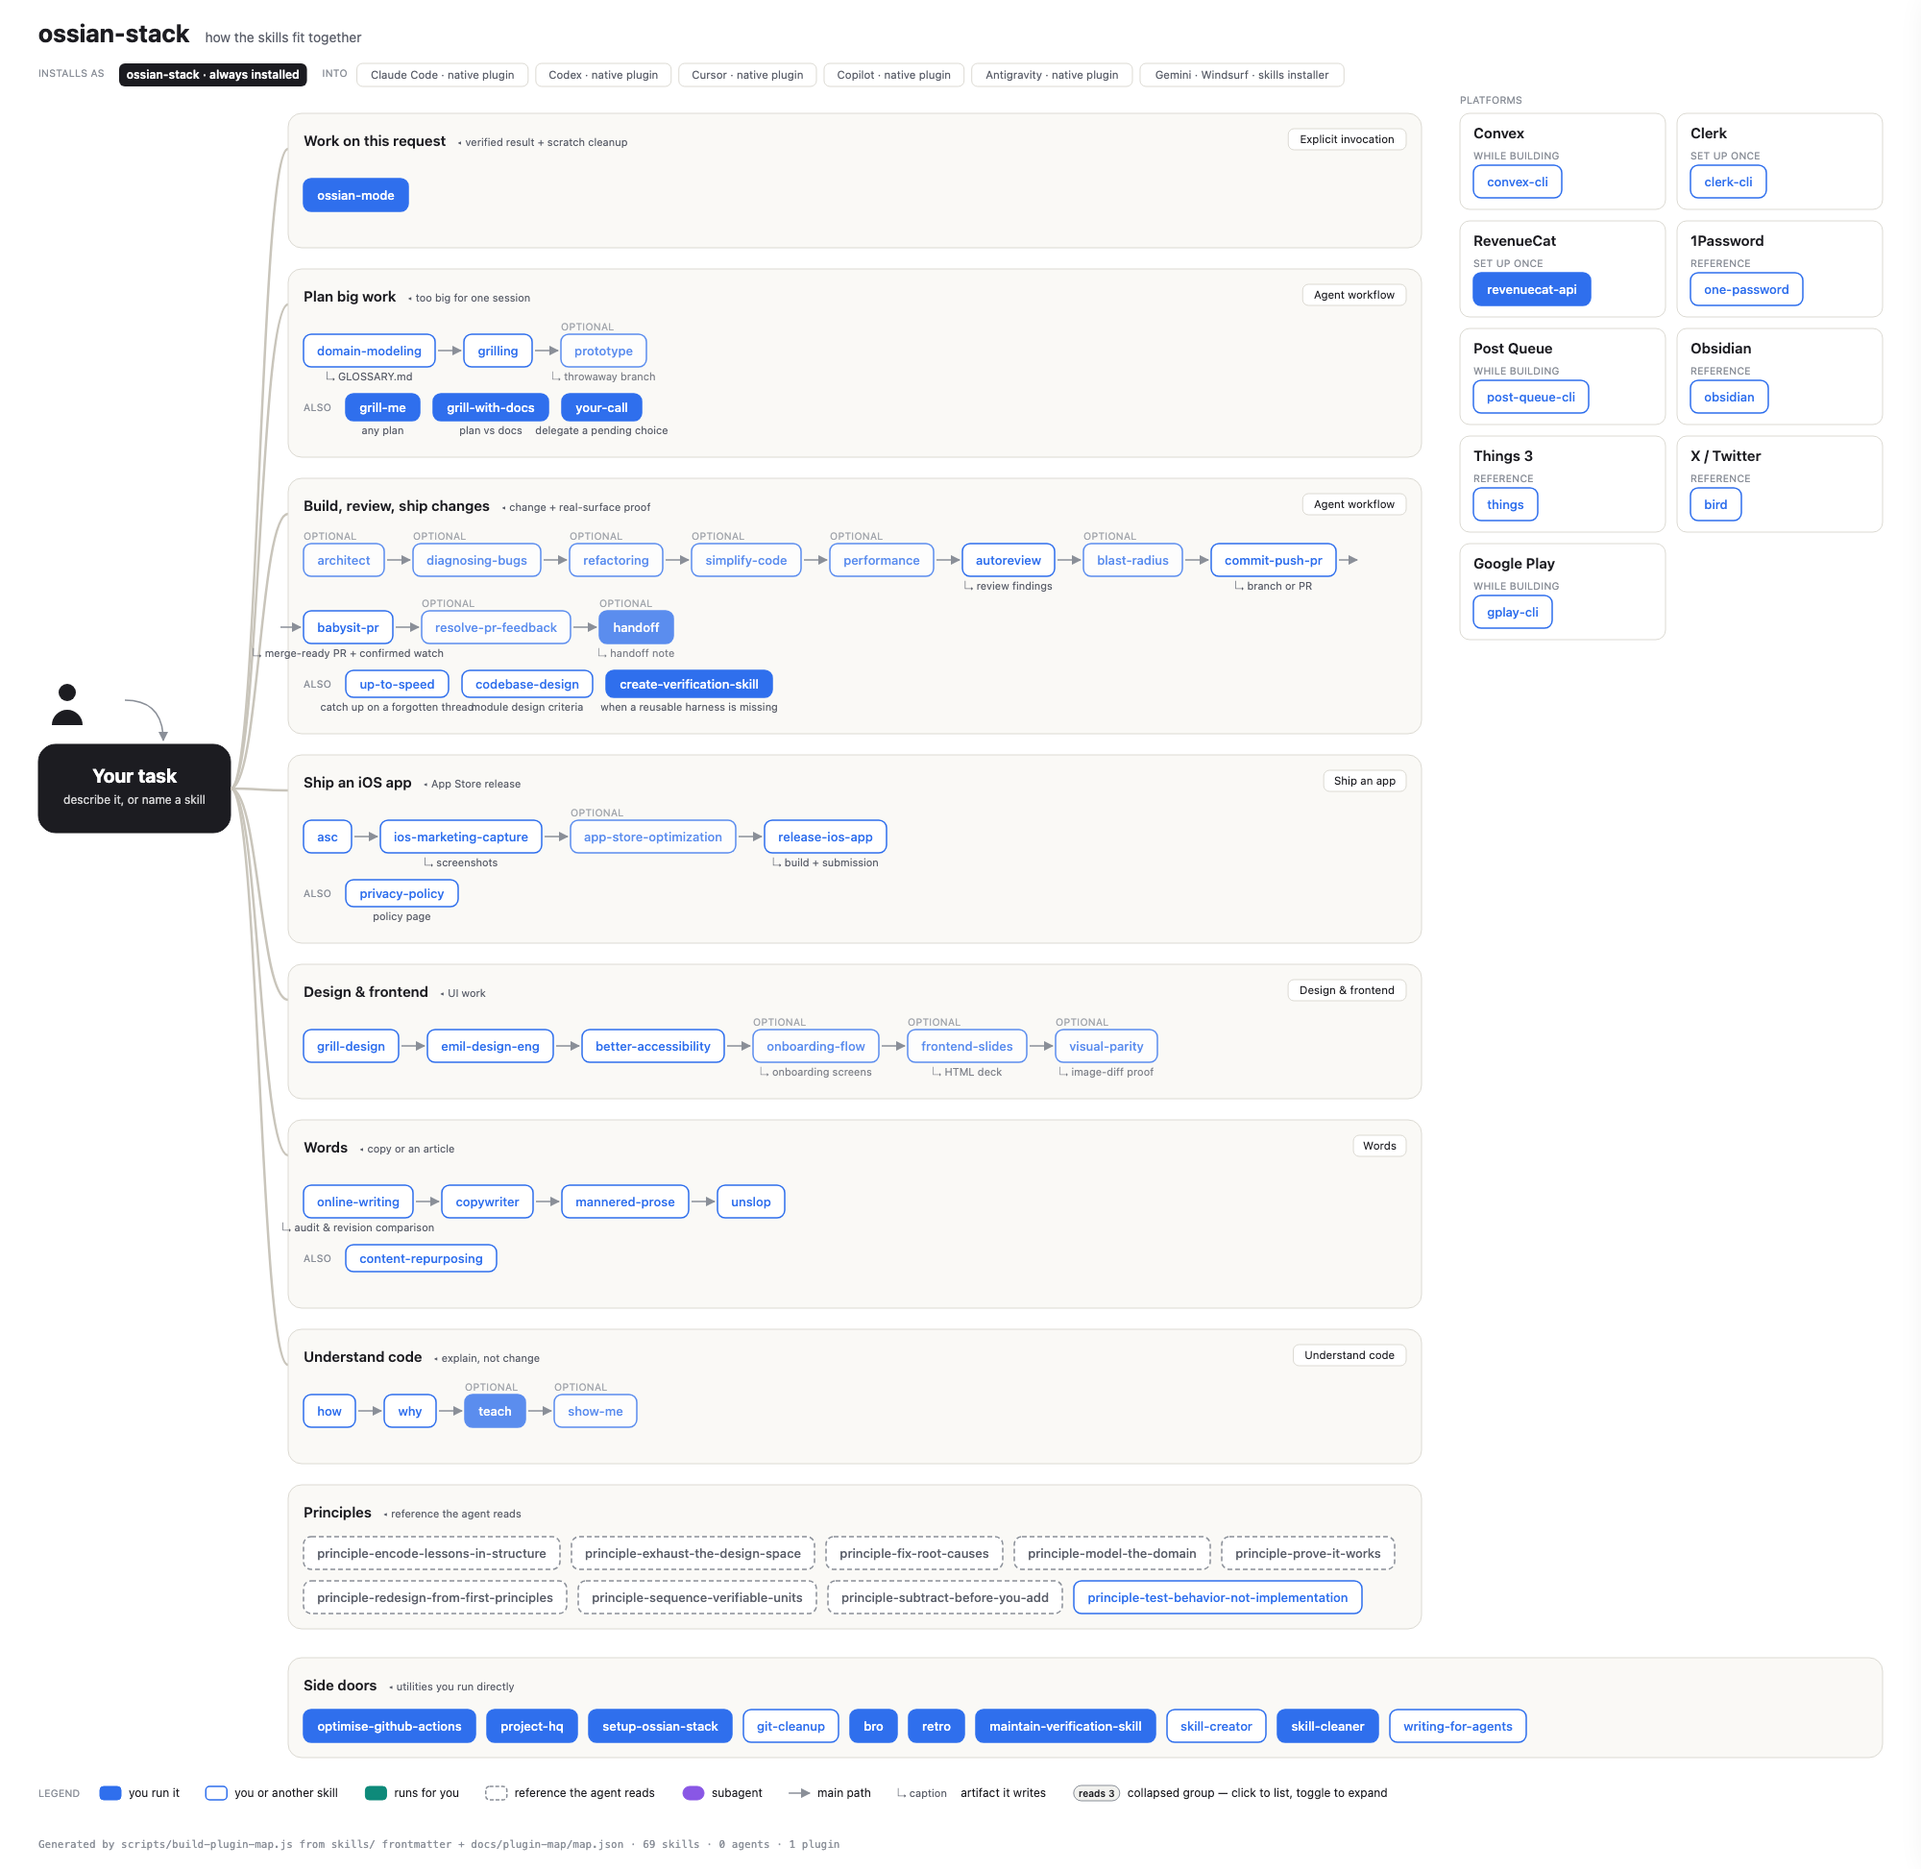
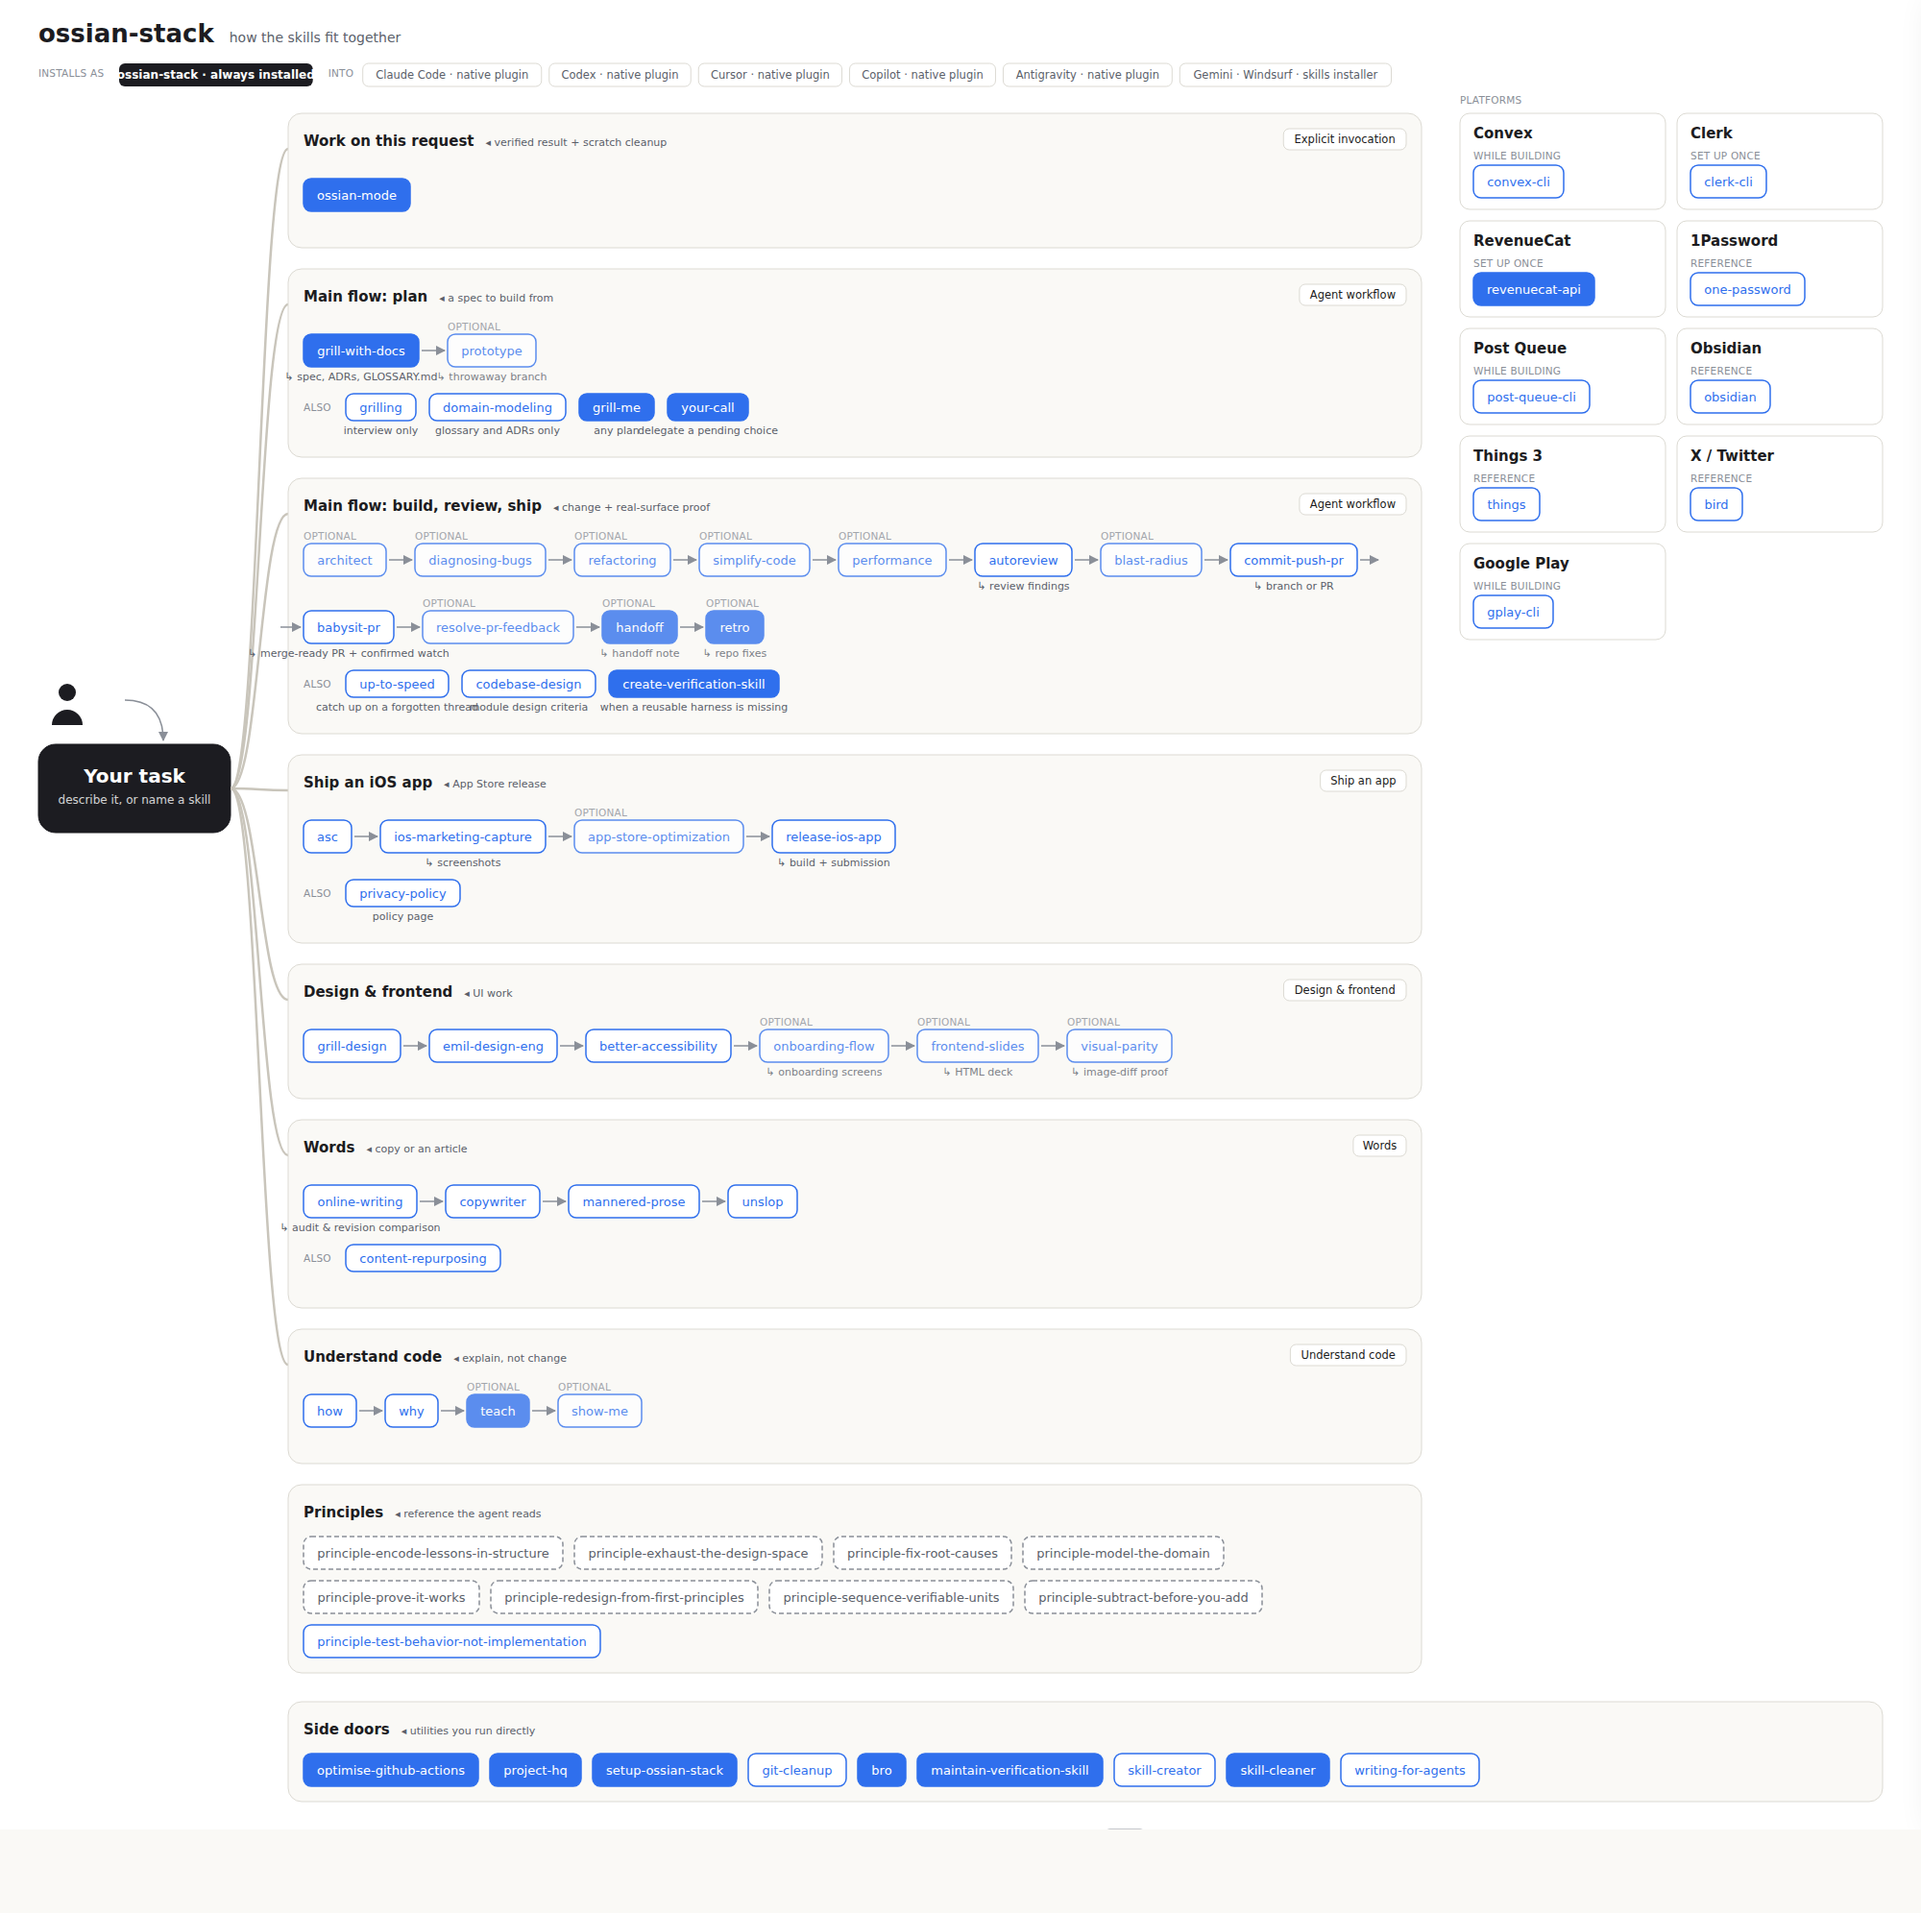
feat(grill-with-docs): end with a spec and document the main flow
grill-with-docs now finishes by writing a spec (goal, decisions, out of
scope, behavior checks, build order) in place of tickets. The README gains
a "Main flow" section that orders the idea-to-ship skills, ossian-mode
builds a spec's units test-first, and the plugin map marks the plan and
build lanes as the main flow with retro at the end.

Claude-Session: https://claude.ai/code/session_01UTeC3iE8M5jTcZm3SuxENU

diff --git a/docs/plugin-map/index.html b/docs/plugin-map/index.html
@@ -169,16 +169,13 @@
    },
    {
     "id": "plan",
-    "title": "Plan big work",
-    "outcome": "too big for one session",
+    "title": "Main flow: plan",
+    "outcome": "a spec to build from",
     "tag": "Agent workflow",
     "steps": [
      {
-      "id": "domain-modeling",
-      "writes": "GLOSSARY.md"
-     },
-     {
-      "id": "grilling"
+      "id": "grill-with-docs",
+      "writes": "spec, ADRs, GLOSSARY.md"
      },
      {
       "id": "prototype",
@@ -188,12 +185,16 @@
     ],
     "extras": [
      {
-      "id": "grill-me",
-      "note": "any plan"
+      "id": "grilling",
+      "note": "interview only"
      },
      {
-      "id": "grill-with-docs",
-      "note": "plan vs docs"
+      "id": "domain-modeling",
+      "note": "glossary and ADRs only"
+     },
+     {
+      "id": "grill-me",
+      "note": "any plan"
      },
      {
       "id": "your-call",
@@ -203,7 +204,7 @@
    },
    {
     "id": "build",
-    "title": "Build, review, ship changes",
+    "title": "Main flow: build, review, ship",
     "outcome": "change + real-surface proof",
     "tag": "Agent workflow",
     "steps": [
@@ -251,6 +252,11 @@
       "id": "handoff",
       "optional": true,
       "writes": "handoff note"
+     },
+     {
+      "id": "retro",
+      "optional": true,
+      "writes": "repo fixes"
      }
     ],
     "extras": [
@@ -479,7 +485,6 @@
    "setup-ossian-stack",
    "git-cleanup",
    "bro",
-   "retro",
    "maintain-verification-skill",
    "skill-creator",
    "skill-cleaner",
@@ -1009,7 +1014,7 @@
    "type": "skill",
    "plugin": "ossian-stack",
    "display": "Grill with Docs",
-   "description": "A relentless interview to sharpen a plan or design, which also creates docs (ADR's and glossary) as we go.",
+   "description": "A relentless interview to sharpen a plan or design, which also creates docs (ADR's and glossary) as we go and ends with a written spec.",
    "role": "human",
    "humanOnly": true,
    "argumentHint": null,
@@ -1021,7 +1026,9 @@
    ],
    "routes": [],
    "calledBy": [],
-   "routedBy": []
+   "routedBy": [
+    "ossian-mode"
+   ]
   },
   "grilling": {
    "id": "grilling",
@@ -1284,6 +1291,7 @@
    ],
    "routes": [
     "create-verification-skill",
+    "grill-with-docs",
     "mannered-prose",
     "project-hq"
    ],

diff --git a/skills/grill-with-docs/SPEC-FORMAT.md b/skills/grill-with-docs/SPEC-FORMAT.md
@@ -1,0 +1,48 @@
+# Spec Format
+
+A spec turns a finished grilling session into the brief an implementer works
+from — you in a later session, another agent, or a fresh subagent that inherits
+nothing. Write it for that reader.
+
+## Where it goes
+
+Follow the project's existing spec or plan location if it has one. Otherwise
+write `docs/specs/<slug>.md`, creating the directory when the first spec is
+written. Update an existing spec for the same work instead of adding a second.
+
+## Template
+
+```md
+# {Feature or change, in the project's GLOSSARY.md terms}
+
+## Goal
+{What a user or caller can do afterwards that they cannot do now. 1-3 sentences.}
+
+## Decisions
+- {Each decision the session settled, with the reason when it is not obvious.
+  Link the ADR when one was written.}
+
+## Out of scope
+- {What was raised and deliberately left out.}
+
+## Behavior
+- {Observable behavior that proves the change works, one check per line:
+  input or action → expected result on the surface the user touches. These
+  become the first tests.}
+
+## Build order
+1. {The smallest unit that can be built and checked on its own, naming the
+   behavior checks it satisfies.}
+2. {The next unit, building on the first.}
+```
+
+## Rules
+
+- **No tickets.** Work is split into the build order inside the spec, not into
+  tracker issues. Each unit is small enough to build and verify in one pass and
+  leaves the project working.
+- **Behavior, not implementation.** Behavior checks state what is observed, not
+  which functions exist, so they survive the implementer's choices.
+- **Nothing open.** If writing a section exposes an unsettled decision, it is
+  another grilling round, not a TODO in the spec.
+- Keep it short. A section with nothing real to say is omitted.

diff --git a/skills/ossian-mode/SKILL.md b/skills/ossian-mode/SKILL.md
@@ -107,7 +107,7 @@ to implementation; its size alone does not require a planning detour.
 | Questions or investigation | `how` for behavior and ownership; `why` for rationale and evidence. A question alone does not authorize a change. |
 | Diagnosis | `diagnosing-bugs` for broken behavior. Use `performance` for latency, CPU, memory, energy, frame time, throughput, or captured profiles. Preserve diagnosis-only scope. |
 | Unsettled design | `grilling` for product decisions, `prototype` for observable alternatives, and `architect` for caller contracts and module boundaries. |
-| Implementation | Implement the agreed scope directly. For cross-boundary work settle caller usage and the data shape through `architect`. Load a relevant platform or craft skill only where needed. Use `visual-parity` when a UI must match a fixed reference. |
+| Implementation | Implement the agreed scope directly. When a spec from `grill-with-docs` exists, build its units in order and write each unit's behavior checks as failing tests before the code. For cross-boundary work settle caller usage and the data shape through `architect`. Load a relevant platform or craft skill only where needed. Use `visual-parity` when a UI must match a fixed reference. |
 | Refactoring | `refactoring` for structural changes with behavior preserved; `simplify-code` for readability in place. |
 | Delivery | Use `blast-radius` before delivery when safety depends on behavior beyond the diff. Use `commit-push-pr` for requested commits, pushes, and PRs; `babysit-pr` for an existing PR's readiness work; `release-ios-app` for an authorized iOS release. |
 

diff --git a/README.md b/README.md
@@ -136,6 +136,23 @@ project work. Ossian Mode handles the current request without creating tasks
 automatically. Direct skill calls remain valid, and downstream
 explicit-invocation and action permissions still apply.
 
+## Main flow
+
+For a new feature or change that starts as an idea, run these in order. Each step
+leaves something on disk the next one reads; there are no tickets.
+
+| Step | Skill | Leaves behind |
+| --- | --- | --- |
+| 1. Grill the plan | **grill-with-docs** | ADRs, GLOSSARY.md terms, and a spec with behavior checks and a build order |
+| 2. Settle interfaces | **architect**, when the change crosses module boundaries | agreed caller usage and types |
+| 3. Build | **ossian-mode** with the spec: each unit of the build order, its behavior checks written as tests first | working code, proven on the real surface |
+| 4. Review | **autoreview**, plus **blast-radius** when safety depends on code outside the diff | review findings, fixed |
+| 5. Ship | **commit-push-pr**, then **babysit-pr** for a PR | a commit on main, or a merge-ready PR |
+| 6. Look back | **retro** | proposed fixes to the repo and its instructions |
+
+Skip a step only when its output already exists: an agreed scope skips step 1, a
+change inside one module skips step 2.
+
 ## Philosophy
 
 One repo, one install, every runtime. These skills previously lived in a private

diff --git a/skills/grill-with-docs/SKILL.md b/skills/grill-with-docs/SKILL.md
@@ -1,7 +1,13 @@
 ---
 name: grill-with-docs
-description: A relentless interview to sharpen a plan or design, which also creates docs (ADR's and glossary) as we go.
+description: A relentless interview to sharpen a plan or design, which also creates docs (ADR's and glossary) as we go and ends with a written spec.
 disable-model-invocation: true
 ---
 
 Load and follow `grilling` and `domain-modeling` using the host's installed-skill mechanism.
+
+When the user confirms the shared understanding, write the spec before anything
+is built: one file in the format of [SPEC-FORMAT.md](./SPEC-FORMAT.md). It is the
+input to implementation, so it records every settled decision and leaves nothing
+for the implementer to guess. Show the user the path and stop; building it is a
+separate request.

diff --git a/skills/grill-with-docs/README.md b/skills/grill-with-docs/README.md
@@ -8,6 +8,9 @@ Thin user-invoke router that runs a `grilling` session composed with
 convention), so the interview writes glossary terms and ADRs as they
 crystallise.
 
+Local adaptation: the session ends by writing a spec (`SPEC-FORMAT.md`) with a
+build order in place of tickets. Preserve it on refresh.
+
 To update:
 
 ```bash
